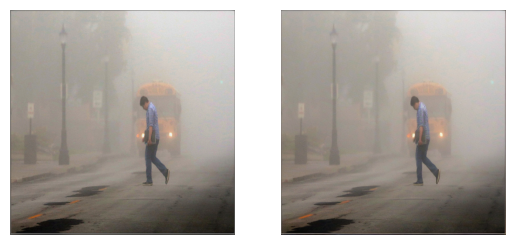
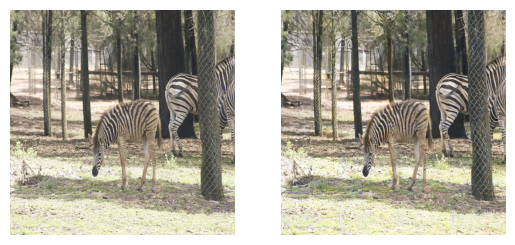
prepping for second experiment

diff --git a/main.py b/main.py
@@ -9,6 +9,7 @@ from torch.utils.data import Subset
 import src.utils as utils
 import src.plotting.image_plotting as image_plotting
 from src.watermarkers.stegopatch import StegoPatch
+from src.watermarkers.stegopatch_legacy import StegoPatchLegacy
 from src.noisers.stegopatch_noiser import StegoPatchNoiser
 
 DEBUGGING = 0
@@ -23,6 +24,10 @@ PATCH_SIZE = 96
 IMAGE_SIZE = 384
 CROP_SIZE = 288
 MESSAGE_LENGTH = 20
+P_CROP = 0.25
+P_ROTATE = 0.25
+P_IDENTITY = 0.5
+ROTATION_BOUND = 30
 if MODE in (TRAINING, TESTING):
     BATCH_SIZE = 8
     NUM_EPOCHS = 20
@@ -86,14 +91,14 @@ def build_configs(
     noiser_configs = {
         "p_differentiable": 0,
         "p_imagenet": 0,
-        "p_crop": 0.5,
-        "p_identity": 0.5,
-        "p_rotate": 0,
+        "p_crop": P_CROP,
+        "p_identity": P_IDENTITY,
+        "p_rotate": P_ROTATE,
         "w_image": IMAGE_SIZE,
         "h_image": IMAGE_SIZE,
         "crop_size": CROP_SIZE,
-        "rotation_lower_bound": -30,
-        "rotation_upper_bound": 30,
+        "rotation_lower_bound": -ROTATION_BOUND,
+        "rotation_upper_bound": ROTATION_BOUND,
     }
     noiser = StegoPatchNoiser(noiser_configs)
     return {
@@ -152,17 +157,14 @@ def main(
     models_dir: str,
     tensorboard_log_dir: str,
 ):
-    stegopatch = _build_stegopatch(
+    configs = build_configs(
         data_path,
         device,
         models_dir,
         tensorboard_log_dir
     )
-    # stegopatch.load_model("results/stegopatch/experiment_1/models/stegopatch_2026-06-25_15-54-47/checkpoint4.pt")
-    cover = utils.load_random_image(Path("data/train2017"), IMAGE_SIZE)
-    message = np.random.randint(0, 2, (MESSAGE_LENGTH, 1))
-    stego = stegopatch.encode_image(cover, message)
-    image_plotting.plot_side_by_side(cover, stego, Path("results/stegopatch/experiment_1/plots"))
+    stegopatch = StegoPatch(configs)
+    stegopatch.train()
 
 
 